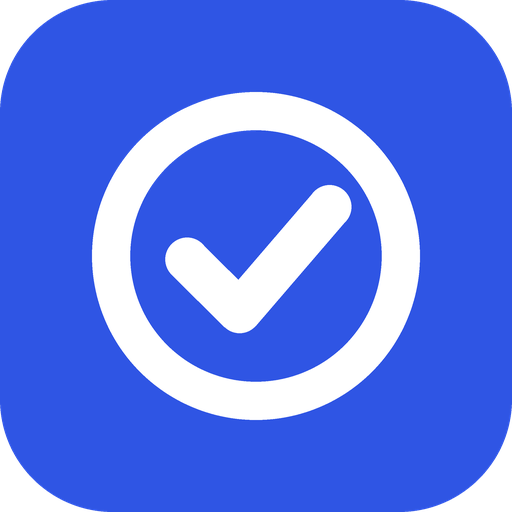
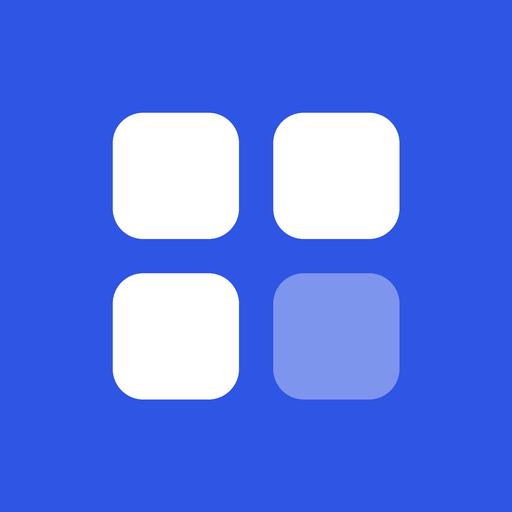
Rename to Blocks; score breakdown, clearer done rows, calendar bar
- App name Blocks with a new icon (four blocks, one still to fill);
  the current challenge becomes "Block 1" (renamable in Setup)
- Tap the score ring for a breakdown: what's left (biggest first),
  points each habit earns, and how far to 70%; tap a habit to jump to it
- Done habits get a green tint and check, minimums a warm tint
- Shorter habit subtitles ("5,000 steps · min 3,000")
- Calendar: one colored bar replaces the three count boxes

Claude-Session: https://claude.ai/code/session_014Rzo6J9MF9DVjnbVUChU4V

diff --git a/index.html b/index.html
@@ -7,10 +7,10 @@
 <meta name="theme-color" content="#0C0F15" media="(prefers-color-scheme: dark)">
 <meta name="apple-mobile-web-app-capable" content="yes">
 <meta name="mobile-web-app-capable" content="yes">
-<meta name="apple-mobile-web-app-title" content="80-Day Block">
+<meta name="apple-mobile-web-app-title" content="Blocks">
 <link rel="manifest" href="manifest.webmanifest">
[1 lines of base64/hex data omitted]
-<title>80-Day Block</title>
[1 lines of base64/hex data omitted]
+<title>Blocks</title>
 <meta name="description" content="Daily habit, gym, run and body tracker">
 <link rel="preconnect" href="https://fonts.googleapis.com">
 <link rel="preconnect" href="https://fonts.gstatic.com" crossorigin>
@@ -74,6 +74,8 @@ h1,h2,h3,p{margin:0}
 .ring .trk{stroke:var(--surface-2)}
 .ring .arc{stroke:var(--accent);stroke-linecap:round;transition:stroke-dashoffset .35s ease,stroke .2s}
 .ring.full .arc{stroke:var(--good)}
+.ring{border-radius:50%}
+.ring:active{transform:scale(.97)}
 .ring .lbl{position:absolute;inset:0;display:flex;flex-direction:column;align-items:center;justify-content:center}
 .ring b{font-family:var(--font-display);font-size:23px;font-weight:700;line-height:1}
 .ring small{font-family:var(--font-data);font-size:11px;color:var(--muted);margin-top:3px}
@@ -116,6 +118,13 @@ button.row:active{background:var(--surface-2)}
 .box svg{width:18px;height:18px;stroke:var(--accent-ink);stroke-width:3;fill:none;stroke-linecap:round;stroke-linejoin:round;opacity:0;transform:scale(.5);transition:opacity .15s,transform .15s;position:relative}
 .on .box{background:var(--accent);border-color:var(--accent)}
 .on .box svg{opacity:1;transform:none}
+#habits>li{transition:background-color .2s}
+#habits>li.on{background:color-mix(in srgb,var(--good) 10%,var(--surface))}
+#habits>li.part{background:color-mix(in srgb,var(--warn) 9%,var(--surface))}
+#habits>li.on .txt b{color:color-mix(in srgb,var(--fg) 70%,var(--surface))}
+#habits>li.on .box{background:var(--good);border-color:var(--good)}
+#habits>li.flash{animation:flash 1.2s ease}
+@keyframes flash{0%,40%{background:var(--accent-soft)}}
 .part .box{border-color:var(--accent);background:linear-gradient(to top,var(--accent) 0 50%,transparent 50% 100%)}
 .boxbtn{flex:none;padding:6px;margin:-6px;border-radius:14px}
 .boxbtn:active .box{transform:scale(.9)}
@@ -243,10 +252,11 @@ textarea:focus{outline:2px solid var(--accent);outline-offset:0;border-color:tra
 .cell.today{box-shadow:0 0 0 2px var(--bg),0 0 0 4px var(--fg)}
 .cell .dot{position:absolute;top:4px;right:4px;width:5px;height:5px;border-radius:50%;background:currentColor;opacity:.85}
 button.cell:active{transform:scale(.92)}
-.tally{display:grid;grid-template-columns:repeat(3,1fr);gap:8px;margin-top:16px}
-.tally div{background:var(--surface);border:1px solid var(--line);border-radius:14px;padding:10px 12px}
-.tally b{display:block;font-family:var(--font-display);font-size:24px;line-height:1.1}
-.tally small{font-size:12px;color:var(--muted)}
+.tally{margin-top:14px}
+.mix{display:flex;gap:3px;height:12px}
+.mix i{border-radius:4px;min-width:6px}
+.mixcap{display:flex;gap:14px;flex-wrap:wrap;margin-top:8px;font-size:13px;color:var(--muted)}
+.mixcap b{color:var(--fg);font-family:var(--font-data);font-weight:600}
 .plist{list-style:none;margin:0;padding:0}
 .plist li{display:flex;align-items:center;gap:10px;min-height:48px;border-top:1px solid var(--line);font-size:14px}
 .plist li:first-child{border-top:0}
@@ -535,6 +545,24 @@ select.inp{font-family:var(--font-body)}
 .sheet-in{width:100%;max-width:520px;max-height:92%;overflow:auto;background:var(--bg);border-radius:22px 22px 0 0;padding:16px 16px calc(20px + env(safe-area-inset-bottom,0px));display:flex;flex-direction:column;gap:12px}
 .sheet-head{display:flex;align-items:center;justify-content:space-between}
 .sheet-head h2{font-family:var(--font-display);font-size:22px}
+.rsum{display:flex;align-items:baseline;gap:10px}
+.rsum b{font-family:var(--font-display);font-size:44px;line-height:1;letter-spacing:-.02em}
+.rsum span{color:var(--muted);font-size:14px}
+.rbar{position:relative;height:10px;border-radius:6px;background:var(--surface-2);overflow:hidden}
+.rbar i{position:absolute;inset:0 auto 0 0;background:var(--accent);border-radius:6px}
+.rbar u{position:absolute;top:0;bottom:0;left:70%;width:2px;background:var(--fg);opacity:.45}
+.rnote{font-size:13px;color:var(--muted)}
+.rlist{list-style:none;margin:0;padding:0;background:var(--surface);border:1px solid var(--line);border-radius:16px;overflow:hidden}
+.rlist li+li{border-top:1px solid var(--line)}
+.rlist button{display:flex;align-items:center;gap:12px;width:100%;padding:11px 14px;text-align:left}
+.rlist .st{width:12px;height:12px;border-radius:50%;flex:none;border:2px solid var(--box-line)}
+.rlist .st.on{background:var(--good);border-color:var(--good)}
+.rlist .st.part{background:linear-gradient(to top,var(--warn) 50%,transparent 50%);border-color:var(--warn)}
+.rlist .nm{flex:1;min-width:0;font-size:15px;font-weight:500}
+.rlist .nm small{display:block;font-size:12px;color:var(--muted);font-weight:400}
+.rlist .pt{font-family:var(--font-data);font-size:13px;color:var(--muted);font-variant-numeric:tabular-nums;white-space:nowrap}
+.rlist .pt b{color:var(--fg);font-weight:600}
+.rgroup{font-size:13px;font-weight:600;color:var(--muted);margin:4px 2px -4px}
 .scanview{position:relative;border-radius:16px;overflow:hidden;background:#000;aspect-ratio:4/3;max-width:100%}
 .scanview video{width:100%;height:100%;object-fit:cover;display:block}
 .scanview .scanline{position:absolute;left:10%;right:10%;top:50%;height:2px;background:var(--bad);box-shadow:0 0 12px var(--bad)}
@@ -662,10 +690,10 @@ textarea.ing{min-height:52px;font-size:13px}
         <h1 class="date" id="dDate">Nov 3</h1>
         <div class="wk"><span class="pill" id="dWorkout">Pull day</span><span class="count" id="dCount"></span></div>
       </div>
-      <div class="ring" id="ring" role="img" aria-label="Daily completion">
+      <button class="ring" id="ring" type="button" aria-label="Daily completion" aria-haspopup="dialog">
         <svg viewBox="0 0 80 80" aria-hidden="true"><circle class="trk" cx="40" cy="40" r="33"/><circle class="arc" id="ringArc" cx="40" cy="40" r="33"/></svg>
         <div class="lbl"><b id="ringPct">0%</b><small id="ringFrac">0/14</small></div>
-      </div>
+      </button>
     </header>
     <div class="chiprow">
       <span class="schip" id="chStreak"><svg viewBox="0 0 24 24" class="flame" aria-hidden="true"><path fill="currentColor" d="M12 2.5c1.1 3.6 5.5 5.7 5.5 10.6a5.5 5.5 0 0 1-11 0c0-2.4 1.3-4 2.4-5 .2 1.7 1.1 2.8 2.2 3.4C10.6 8.6 11.1 5.3 12 2.5z"/></svg><span id="chStreakTxt">0 days</span></span>
@@ -1051,7 +1079,7 @@ textarea.ing{min-height:52px;font-size:13px}
 <div class="snack" id="snack" hidden role="status"><span id="snackTxt"></span><button type="button" id="snackUndo">Undo</button></div>
 <div class="lock" id="lock" hidden role="dialog" aria-modal="true" aria-labelledby="lockTitle">
   <div class="lockbox">
-    <p class="eyebrow">80-Day Block</p>
+    <p class="eyebrow">Blocks</p>
     <h2 id="lockTitle">Enter your PIN</h2>
     <div class="pindots" id="lockDots"></div>
     <p class="status warn" id="lockMsg"></p>
@@ -1061,6 +1089,12 @@ textarea.ing{min-height:52px;font-size:13px}
       <button type="button" data-d="7">7</button><button type="button" data-d="8">8</button><button type="button" data-d="9">9</button>
       <button type="button" class="alt" id="lockAlt">Forgot?</button><button type="button" data-d="0">0</button><button type="button" class="alt" id="lockDel" aria-label="Delete">Delete</button>
     </div>
+  </div>
+</div>
+<div class="sheet" id="ringSheet" hidden role="dialog" aria-modal="true" aria-labelledby="ringTitle">
+  <div class="sheet-in">
+    <div class="sheet-head"><h2 id="ringTitle">Today's score</h2><button class="x" type="button" id="ringClose" aria-label="Close score breakdown"><svg viewBox="0 0 24 24" aria-hidden="true"><path d="M6 6l12 12M18 6L6 18"/></svg></button></div>
+    <div id="ringBody"></div>
   </div>
 </div>
 <div class="sheet" id="scanSheet" hidden role="dialog" aria-modal="true" aria-labelledby="scanTitle">
@@ -1091,7 +1125,7 @@ textarea.ing{min-height:52px;font-size:13px}
 <script>
 (function(){
 'use strict';
-const DEFAULT_CHALLENGE = {id:'c2026', name:'80-Day Block', start:'2026-11-03', end:'2026-12-31'};
+const DEFAULT_CHALLENGE = {id:'c2026', name:'Block 1', start:'2026-11-03', end:'2026-12-31'};
 let CHAL, START, END, TOTAL, WEEKS, HALFWAY;
 const SKEY = 'block80.v1';
 const TYPES = ['check', 'num', 'water', 'gym'];
@@ -1327,6 +1361,7 @@ function clean(raw){
   // Nov 2026 restart: move the main block (originally Oct 12, then Oct 17) to Nov 3 – Dec 31 and clear what was earned under the old dates
   let restarted = false;
   for (const c of out.challenges) if (c.id === 'c2026' && !c.deleted && c.start < DEFAULT_CHALLENGE.start) { c.start = DEFAULT_CHALLENGE.start; c.end = DEFAULT_CHALLENGE.end; c.u = Date.now(); restarted = true; }
+  for (const c of out.challenges) if (c.id === 'c2026' && c.name === '80-Day Block') { c.name = DEFAULT_CHALLENGE.name; c.u = Math.max(c.u || 0, Date.now()); }
   out.restarted = restarted;
   if (raw.reviews && typeof raw.reviews === 'object') for (const [k, v] of Object.entries(raw.reviews)) {
     let kk = k;
@@ -1509,7 +1544,7 @@ function habitSub(h, r){
   if (h.auto === 'wake') return 'Out of bed by ' + fmtTime(wakeT(h, cur).t) + (isWeekend(cur) && h.weTime ? ' (weekend)' : '') + (r && r.wake ? ' · up at ' + fmtTime(r.wake) + (r.vwake ? ' ✓ verified' : '') : '') + (c ? ' · partial' : '');
   if (h.auto === 'bed') return 'Lights out by ' + fmtTime(h.time) + (r && r.bed ? ' · in bed ' + fmtTime(r.bed) + (r.vbed ? ' ✓ verified' : '') : '') + (c ? ' · partial' : '');
   if (h.id === 'sun') return sunSub(h, r);
-  if (h.auto === 'study') { const t = studyTotal(r); return fmtN(h.target, 0) + ' min goal' + (t ? ' · ' + t + ' logged' : ' · log topics below') + (c ? ' · partial' : ''); }
+  if (h.auto === 'study') { const t = studyTotal(r); return fmtN(h.target, 0) + ' min goal' + (t ? ' · ' + t + ' logged' : ' · log in Study log') + (c ? ' · partial' : ''); }
   if (c && h.min) return 'Minimum: ' + h.min;
   return h.sub || '';
 }
@@ -1552,11 +1587,11 @@ function renderDay(){
     } else if (h.type === 'num') {
       const v = r && r.vals[h.id] != null ? r.vals[h.id] : '';
       row = '<li class="row" data-row="' + h.id + '"><button class="boxbtn" type="button" data-toggle="' + h.id + '" aria-label="Mark ' + esc(h.name) + ' done"><span class="box">' + CHECK_SVG + '</span></button>' +
-        '<label class="txt" for="in-' + h.id + '"><b>' + nm + '</b><small>Goal ' + fmtN(h.target, 2) + ' ' + esc(h.unit) + (h.minTarget ? ' · min ' + fmtN(h.minTarget, 2) : '') + '</small><span class="mini"><i></i>' + (h.minTarget ? '<u style="left:' + (h.minTarget / h.target * 100) + '%"></u>' : '') + '</span></label>' +
+        '<label class="txt" for="in-' + h.id + '"><b>' + nm + '</b><small>' + fmtN(h.target, 2) + ' ' + esc(h.unit) + (h.minTarget ? ' · min ' + fmtN(h.minTarget, 2) : '') + '</small><span class="mini"><i></i>' + (h.minTarget ? '<u style="left:' + (h.minTarget / h.target * 100) + '%"></u>' : '') + '</span></label>' +
         '<span class="num stepper"><button class="stp" type="button" data-step="' + h.id + '" data-dir="-1" aria-label="Subtract ' + niceStep(h.target) + ' ' + esc(h.unit) + '">' + MINUS_SVG + '</button><input id="in-' + h.id + '" data-field="' + h.id + '" type="number" inputmode="decimal" min="0" step="any" placeholder="0" value="' + v + '" enterkeyhint="done" aria-label="' + esc(h.name) + ' in ' + esc(h.unit) + '"><button class="stp" type="button" data-step="' + h.id + '" data-dir="1" aria-label="Add ' + niceStep(h.target) + ' ' + esc(h.unit) + '">' + PLUS_SVG + '</button></span></li>';
     } else if (h.type === 'water') {
       row = '<li class="water" data-row="' + h.id + '"><div class="row"><button class="boxbtn" type="button" data-toggle="' + h.id + '" aria-label="Mark water done"><span class="box">' + CHECK_SVG + '</span></button>' +
-        '<span class="txt"><b>' + nm + '</b><small>Goal ' + fmtN(h.target / 1000, 2) + ' L' + (h.minTarget ? ' · min ' + fmtN(h.minTarget / 1000, 2) + ' L' : '') + '</small></span><span class="wamt" id="wAmt"></span></div>' +
+        '<span class="txt"><b>' + nm + '</b><small>' + fmtN(h.target / 1000, 2) + ' L' + (h.minTarget ? ' · min ' + fmtN(h.minTarget / 1000, 2) + ' L' : '') + '</small></span><span class="wamt" id="wAmt"></span></div>' +
         '<div class="wbar" aria-hidden="true"><i id="wFill"></i><span style="left:25%"></span><span style="left:50%"></span><span style="left:75%"></span></div>' +
         '<div class="wbtns"><button class="wbtn" type="button" data-water="250">+250 ml</button><button class="wbtn" type="button" data-water="500">+500 ml</button><button class="wbtn" type="button" data-water="1000">+1 L</button><button class="wbtn undo" type="button" id="wUndo">Undo</button></div></li>';
     } else {
@@ -1874,7 +1909,9 @@ function renderCal(){
   $('#cCount').textContent = countdownText() + (last ? ' · Day ' + dayNum(last) + ' of ' + TOTAL : '');
   let g = 0, y = 0, b = 0;
   if (last) for (const d of days(START, last)) { const s = status(d); if (s === 'good') g++; else if (s === 'warn') y++; else if (s === 'bad') b++; }
-  $('#cTally').innerHTML = '<div><b>' + g + '</b><small>Perfect</small></div><div><b>' + y + '</b><small>70–99%</small></div><div><b>' + b + '</b><small>Below 70%</small></div>';
+  const tot = g + y + b, mseg = (n, c) => n ? '<i style="flex:' + n + ';background:' + c + '"></i>' : '';
+  $('#cTally').innerHTML = tot ? '<div class="mix" role="img" aria-label="' + g + ' perfect, ' + y + ' at 70 to 99 percent, ' + b + ' below 70 percent">' + mseg(g, 'var(--good)') + mseg(y, 'var(--warn)') + mseg(b, 'var(--bad)') + '</div>' +
+    '<p class="mixcap"><span><b>' + g + '</b> perfect</span><span><b>' + y + '</b> at 70–99%</span><span><b>' + b + '</b> below 70%</span></p>' : '';
   const prs = liftIndex().prs;
   const dows = ['M','T','W','T','F','S','S'].map(x => '<span class="dow">' + x + '</span>').join('');
   let html = '';
@@ -2403,7 +2440,7 @@ function scheduleReminders(){
 }
 function buildICS(){
   const r = S().remind, stamp = new Date().toISOString().replace(/[-:]/g, '').replace(/\.\d+/, '');
-  const L = ['BEGIN:VCALENDAR','VERSION:2.0','PRODID:-//80-Day Block//EN','CALSCALE:GREGORIAN','X-WR-CALNAME:80-Day Block'];
+  const L = ['BEGIN:VCALENDAR','VERSION:2.0','PRODID:-//Blocks//EN','CALSCALE:GREGORIAN','X-WR-CALNAME:Blocks'];
   const ev = (id, t, title, desc, rule, start) => { if (!isTime(t)) return; const hm = t.replace(':', ''); L.push('BEGIN:VEVENT','UID:' + id + '@80-day-block','DTSTAMP:' + stamp,'DTSTART:' + (start || key(START).replace(/-/g, '')) + 'T' + hm + '00','DURATION:PT5M','RRULE:' + rule,'SUMMARY:' + title,'DESCRIPTION:' + desc,'TRANSP:TRANSPARENT','BEGIN:VALARM','ACTION:DISPLAY','DESCRIPTION:' + title,'TRIGGER:PT0M','END:VALARM','END:VEVENT'); };
   const until = key(END).replace(/-/g, '') + 'T235900', daily = 'FREQ=DAILY;UNTIL=' + until;
   ev('winddown', r.winddown, 'Wind down', 'Screens off. Lights out by ' + fmtTime((hById('sleep') || {}).time || '21:00') + '.', daily);
@@ -2417,7 +2454,7 @@ function renderReminders(){
   const times = '<div class="fgrid" style="margin-top:4px"><label class="field">Wind-down<input class="inp" type="time" data-rem="winddown" value="' + r.winddown + '"></label>' +
     r.water.map((t, i) => '<label class="field">Water nudge ' + (i + 1) + '<input class="inp" type="time" data-rem="water' + i + '" value="' + t + '"></label>').join('') + '</div>';
   if (!canNotify()) {
-    box.innerHTML = '<p class="sub">This viewer can\'t send notifications. For reminders that fire even when the app is closed, import the 80-day-block reminders calendar file into your phone\'s calendar. The installed app can also notify you while it\'s open.</p>' + times;
+    box.innerHTML = '<p class="sub">This viewer can\'t send notifications. For reminders that fire even when the app is closed, import the Blocks reminders calendar file into your phone\'s calendar. The installed app can also notify you while it\'s open.</p>' + times;
     return;
   }
   const perm = Notification.permission;
@@ -2441,7 +2478,7 @@ $('#remBox').addEventListener('change', e => {
 $('#remBox').addEventListener('click', e => {
   if (e.target.id !== 'icsBtn') return;
   const blob = new Blob([buildICS()], {type:'text/calendar'});
-  const a = document.createElement('a'); a.href = URL.createObjectURL(blob); a.download = '80-day-block-reminders.ics';
+  const a = document.createElement('a'); a.href = URL.createObjectURL(blob); a.download = 'blocks-reminders.ics';
   document.body.appendChild(a); a.click(); a.remove(); setTimeout(() => URL.revokeObjectURL(a.href), 1000);
 });
 function renderInstall(){
@@ -2475,7 +2512,7 @@ $('#copyBtn').addEventListener('click', () => {
   try { navigator.clipboard.writeText(txt).then(() => toast('Backup copied'), fallback); } catch (e) { fallback(); }
 });
 $('#dlBtn').addEventListener('click', () => {
-  const fname = '80-day-block-' + key(new Date()) + '.json';
+  const fname = 'blocks-' + key(new Date()) + '.json';
   if (inFrame && dlNs) {
     dlNs.save({filename:fname, data:exportJSON()}).then(() => toast('Backup saved'), err => {
       const c = err && err.code;
@@ -2614,12 +2651,12 @@ function offerFile(name, text, mime){
   const a = document.createElement('a'); a.href = URL.createObjectURL(blob); a.download = name;
   document.body.appendChild(a); a.click(); a.remove(); setTimeout(() => URL.revokeObjectURL(a.href), 1000);
 }
-$('#csvDays').addEventListener('click', () => { const rows = dailyRows(); if (rows.length < 2) { toast('Nothing logged yet'); return; } offerFile('80-day-block-daily-' + key(new Date()) + '.csv', toCSV(rows), 'text/csv'); });
-$('#csvLifts').addEventListener('click', () => { const rows = liftRows(); if (rows.length < 2) { toast('No lift sets logged yet'); return; } offerFile('80-day-block-lifts-' + key(new Date()) + '.csv', toCSV(rows), 'text/csv'); });
+$('#csvDays').addEventListener('click', () => { const rows = dailyRows(); if (rows.length < 2) { toast('Nothing logged yet'); return; } offerFile('blocks-daily-' + key(new Date()) + '.csv', toCSV(rows), 'text/csv'); });
+$('#csvLifts').addEventListener('click', () => { const rows = liftRows(); if (rows.length < 2) { toast('No lift sets logged yet'); return; } offerFile('blocks-lifts-' + key(new Date()) + '.csv', toCSV(rows), 'text/csv'); });
 
 /* ================= CLOUD SYNC (Supabase) ================= */
 const SYNC_KEY = 'block80.sync';
-const SQL = `-- 80-Day Block sync: one private row per sync code.
+const SQL = `-- Blocks sync: one private row per sync code.
 create table if not exists public.block80_sync (
   code text primary key,
   data jsonb not null,
@@ -3472,7 +3509,7 @@ function renderHealth(){
     '<textarea id="hkTa" placeholder=\'{"date":"2026-10-17","steps":6234,"sleep_hours":7.6,"rhr":58}\' aria-label="Paste Health data" style="font-family:var(--font-data);font-size:12px;min-height:70px;margin-top:10px"></textarea>' +
     '<div class="btnrow"><button class="btn" type="button" id="hkPasteBtn">Import pasted data</button></div>' +
     '<details class="howto"><summary>Build the Shortcut (about 3 minutes)</summary><ol class="steps">' +
-    '<li>Open Shortcuts, tap +, and name it "Health to 80-Day Block".</li>' +
+    '<li>Open Shortcuts, tap +, and name it "Health to Blocks".</li>' +
     '<li>Add <b>Find Health Samples</b>: Type is Steps, Start Date is Today. Then <b>Calculate Statistics</b>: Sum. Rename the result "Steps".</li>' +
     '<li>Add <b>Find Health Samples</b>: Type is Sleep Analysis, Start Date is in the last 1 day, Value is not In Bed and not Awake. Add <b>Get Details of Health Samples</b>: Duration, then <b>Calculate Statistics</b>: Sum. Rename it "Sleep". If it shows minutes, use "sleep_minutes" in the next step instead of "sleep_hours".</li>' +
     '<li>Add <b>Find Health Samples</b>: Type is Resting Heart Rate, sorted by Start Date, latest first, limit 1. Rename it "RHR".</li>' +
@@ -4031,7 +4068,7 @@ function renderWeekly(){
     '<h2>Habits</h2>' + rates.map(x => '<div class="wkrow"><span>' + esc(x.h.name) + '</span><span class="bar"><i style="width:' + x.p * 100 + '%;background:' + rateColor(x.p) + '"></i></span><span class="n">' + pct(x.p) + '</span></div>').join('') +
     (best ? '<p class="foot">Best day: ' + fWeekday.format(best[0]) + ' at ' + pct(best[1]) + '.' + (Object.keys(subj).length ? ' Studied ' + Object.entries(subj).sort((a, b) => b[1] - a[1]).map(([t, m]) => t + ' ' + fmtN(m / 60, 1) + ' h').join(', ') + '.' : '') + '</p>' : '') +
     (rv && (rv.good.trim() || rv.fix.trim()) ? '<h2>Review</h2><div class="revnote">' + (rv.good.trim() ? '<b>Went well</b>' + esc(rv.good) : '') + (rv.fix.trim() ? '<b>To fix</b>' + esc(rv.fix) : '') + '</div>' : '') +
-    '<p class="mfoot">80-Day Block · saivamsivarma.github.io/80-day-block</p></article>';
+    '<p class="mfoot">Blocks · saivamsivarma.github.io/80-day-block</p></article>';
 }
 $('#wkPrev').addEventListener('click', () => { wkSel--; renderWeekly(); });
 $('#wkNext').addEventListener('click', () => { wkSel++; renderWeekly(); });
@@ -4158,6 +4195,34 @@ window.addEventListener('popstate', () => {
   if (m) { if (view !== 'day') setView('day'); openDaySub(m[1], 'none'); }
   else if (view === 'day' && daySub) openDaySub(null, 'none');
 });
+
+/* ================= score breakdown ================= */
+function renderRingSheet(){
+  const d = cur, a = applicable(d), s0 = dayScore(d); let W = 0; for (const h of a) W += h.weight || 1;
+  const rows = a.map(h => { const w = h.weight || 1, c = credit(d, h.id); return {h, w, c, pts:W ? w / W * 100 : 0}; });
+  const left = rows.filter(x => x.c < 1).sort((x, y) => y.pts * (1 - y.c) - x.pts * (1 - x.c)), done = rows.filter(x => x.c === 1);
+  const row = x => '<li><button type="button" data-goto="' + x.h.id + '"><span class="st' + (x.c === 1 ? ' on' : x.c ? ' part' : '') + '"></span><span class="nm">' + esc(dispName(x.h, d)) +
+    '<small>' + (x.c === 1 ? 'Done' : x.c ? 'Minimum, half credit' : 'Not yet') + ((x.h.weight || 1) > 1 ? ' · counts ×' + x.h.weight : '') + '</small></span><span class="pt"><b>' + fmtN(x.pts * x.c, 0) + '</b> / ' + fmtN(x.pts, 0) + '</span></button></li>';
+  const need = Math.max(0, 70 - s0.p * 100);
+  $('#ringTitle').textContent = same(d, TODAY) ? "Today's score" : fShort.format(d);
+  $('#ringBody').innerHTML = '<div class="rsum"><b>' + pct(s0.p) + '</b><span>' + s0.n + ' of ' + s0.t + ' done' + (s0.part ? ', ' + s0.part + ' at minimum' : '') + '</span></div>' +
+    '<div class="rbar" aria-hidden="true"><i style="width:' + (s0.p * 100).toFixed(1) + '%"></i><u></u></div>' +
+    '<p class="rnote">' + (!a.length ? 'No habits count on this day.' : s0.p >= 0.999 ? 'Perfect day. Every habit is done.' : need > 0 ? fmtN(Math.ceil(need), 0) + ' more points reach 70% and keep the chain. Each habit shows the points it earns out of 100.' : 'Past 70%, so the chain is safe. Each habit shows the points it earns out of 100.') + '</p>' +
+    (left.length ? '<p class="rgroup">Left, biggest first</p><ul class="rlist">' + left.map(row).join('') + '</ul>' : '') +
+    (done.length ? '<p class="rgroup">Done</p><ul class="rlist">' + done.map(row).join('') + '</ul>' : '');
+}
+function openRingSheet(){ renderRingSheet(); $('#ringSheet').hidden = false; document.querySelector('.app').inert = true; $('#ringClose').focus({preventScroll:true}); }
+function closeRingSheet(){ $('#ringSheet').hidden = true; document.querySelector('.app').inert = false; }
+$('#ring').addEventListener('click', openRingSheet);
+$('#ringClose').addEventListener('click', closeRingSheet);
+$('#ringSheet').addEventListener('click', e => {
+  if (e.target === e.currentTarget) { closeRingSheet(); return; }
+  const g = e.target.closest('[data-goto]'); if (!g) return;
+  closeRingSheet();
+  const el = habitsEl.querySelector('[data-row="' + g.dataset.goto + '"]');
+  if (el) { el.scrollIntoView({block:'center', behavior:'smooth'}); el.classList.remove('flash'); void el.offsetWidth; el.classList.add('flash'); }
+});
+document.addEventListener('keydown', e => { if (e.key === 'Escape' && !$('#ringSheet').hidden) closeRingSheet(); });
 
 /* ================= setup sections ================= */
 const SET_GROUPS = [

diff --git a/sw.js b/sw.js
@@ -1,5 +1,5 @@
-// 80-Day Block offline cache. Bump CACHE when the app changes.
-const CACHE = 'block80-v17';
+// Blocks offline cache. Bump CACHE when the app changes.
+const CACHE = 'block80-v18';
 const CORE = ['./', './index.html', './manifest.webmanifest', './icon-192.png', './icon-512.png', './icon-maskable-512.png'];
 self.addEventListener('install', e => {
   e.waitUntil(caches.open(CACHE).then(c => c.addAll(CORE.map(u => new Request(u, {cache: 'reload'})))).then(() => self.skipWaiting()));

diff --git a/README.md b/README.md
@@ -1,4 +1,4 @@
-# 80-Day Block
+# Blocks
 
 Daily habit tracker: weighted habits with minimum versions, gym log with PRs, runs, study log, meals, bodyweight, sleep, badges, reports, CSV export, multiple challenges and optional cloud sync.
 
